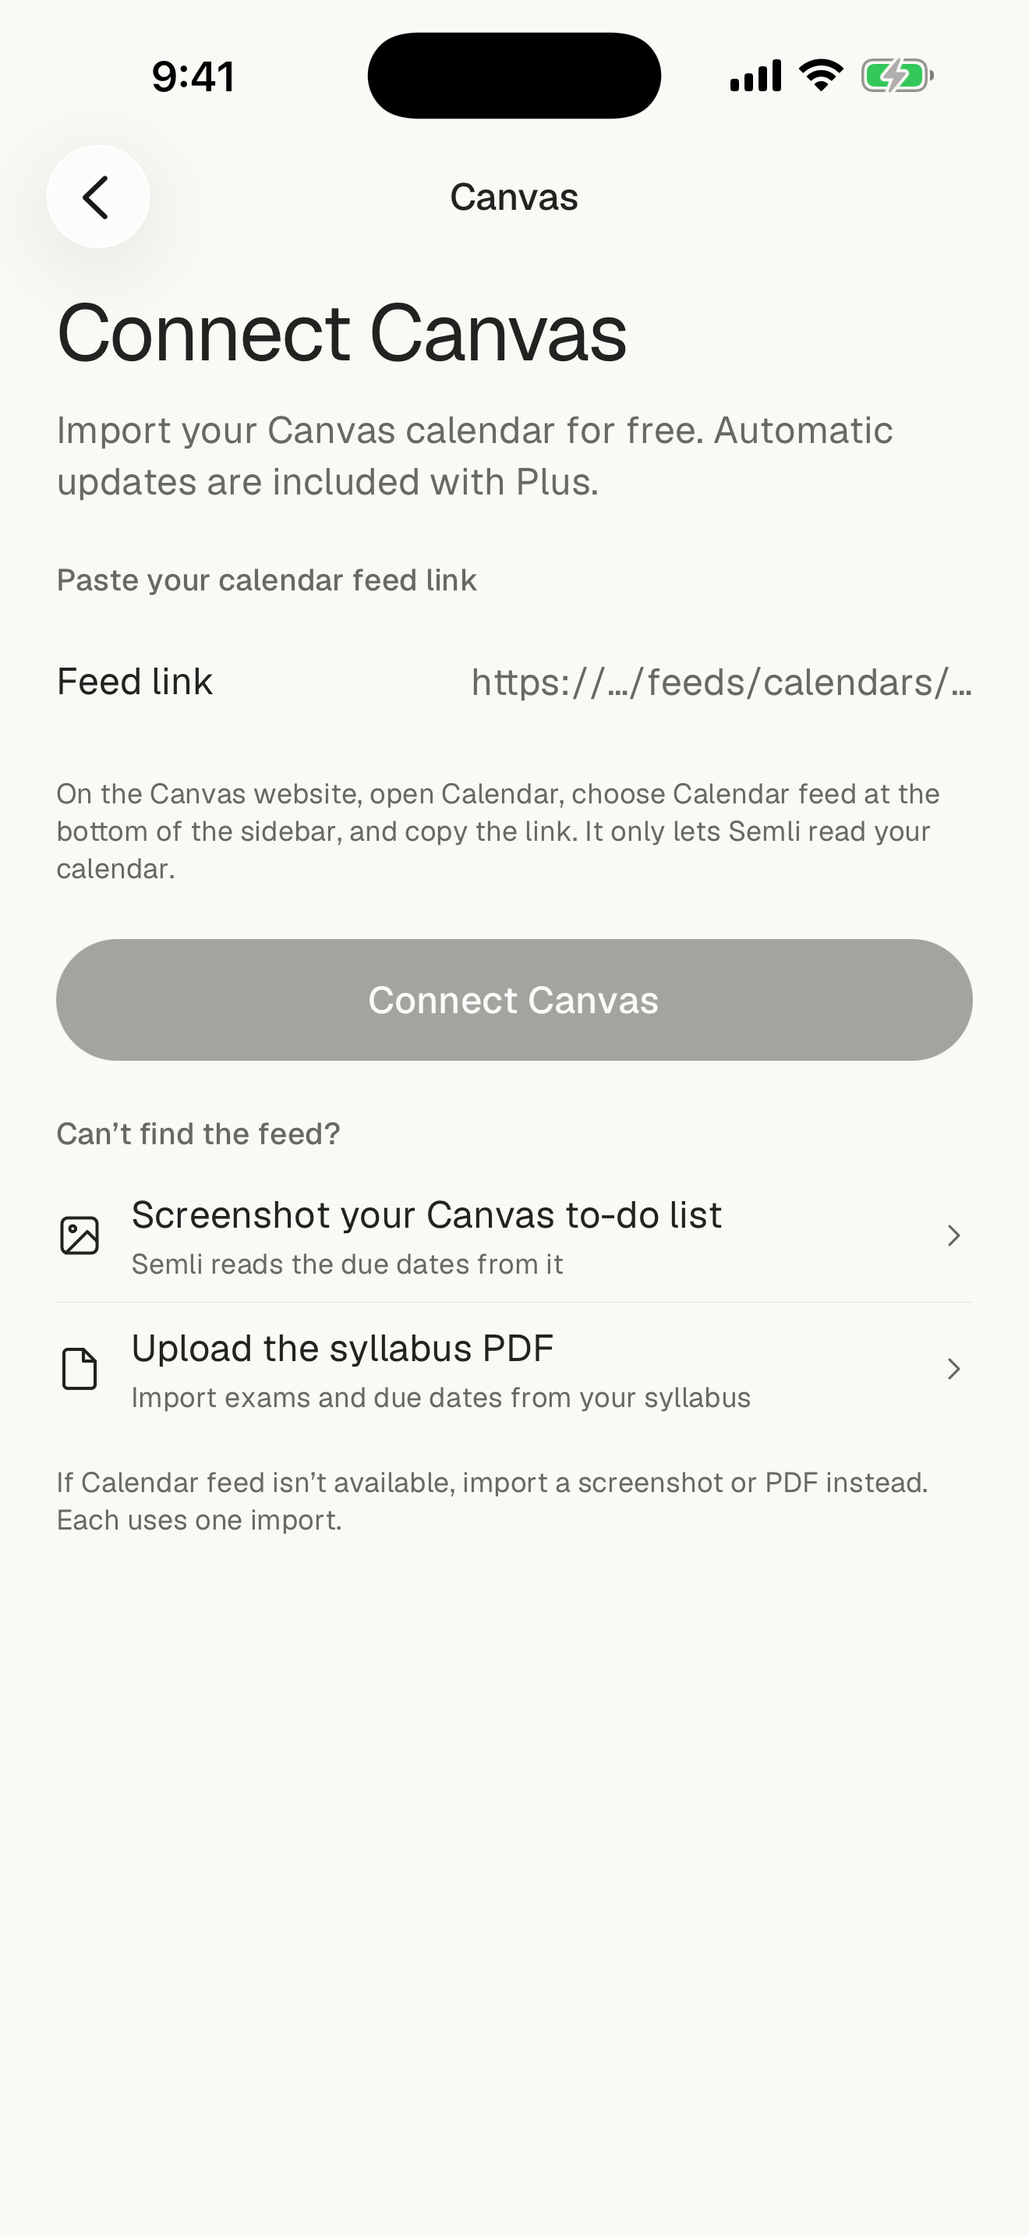
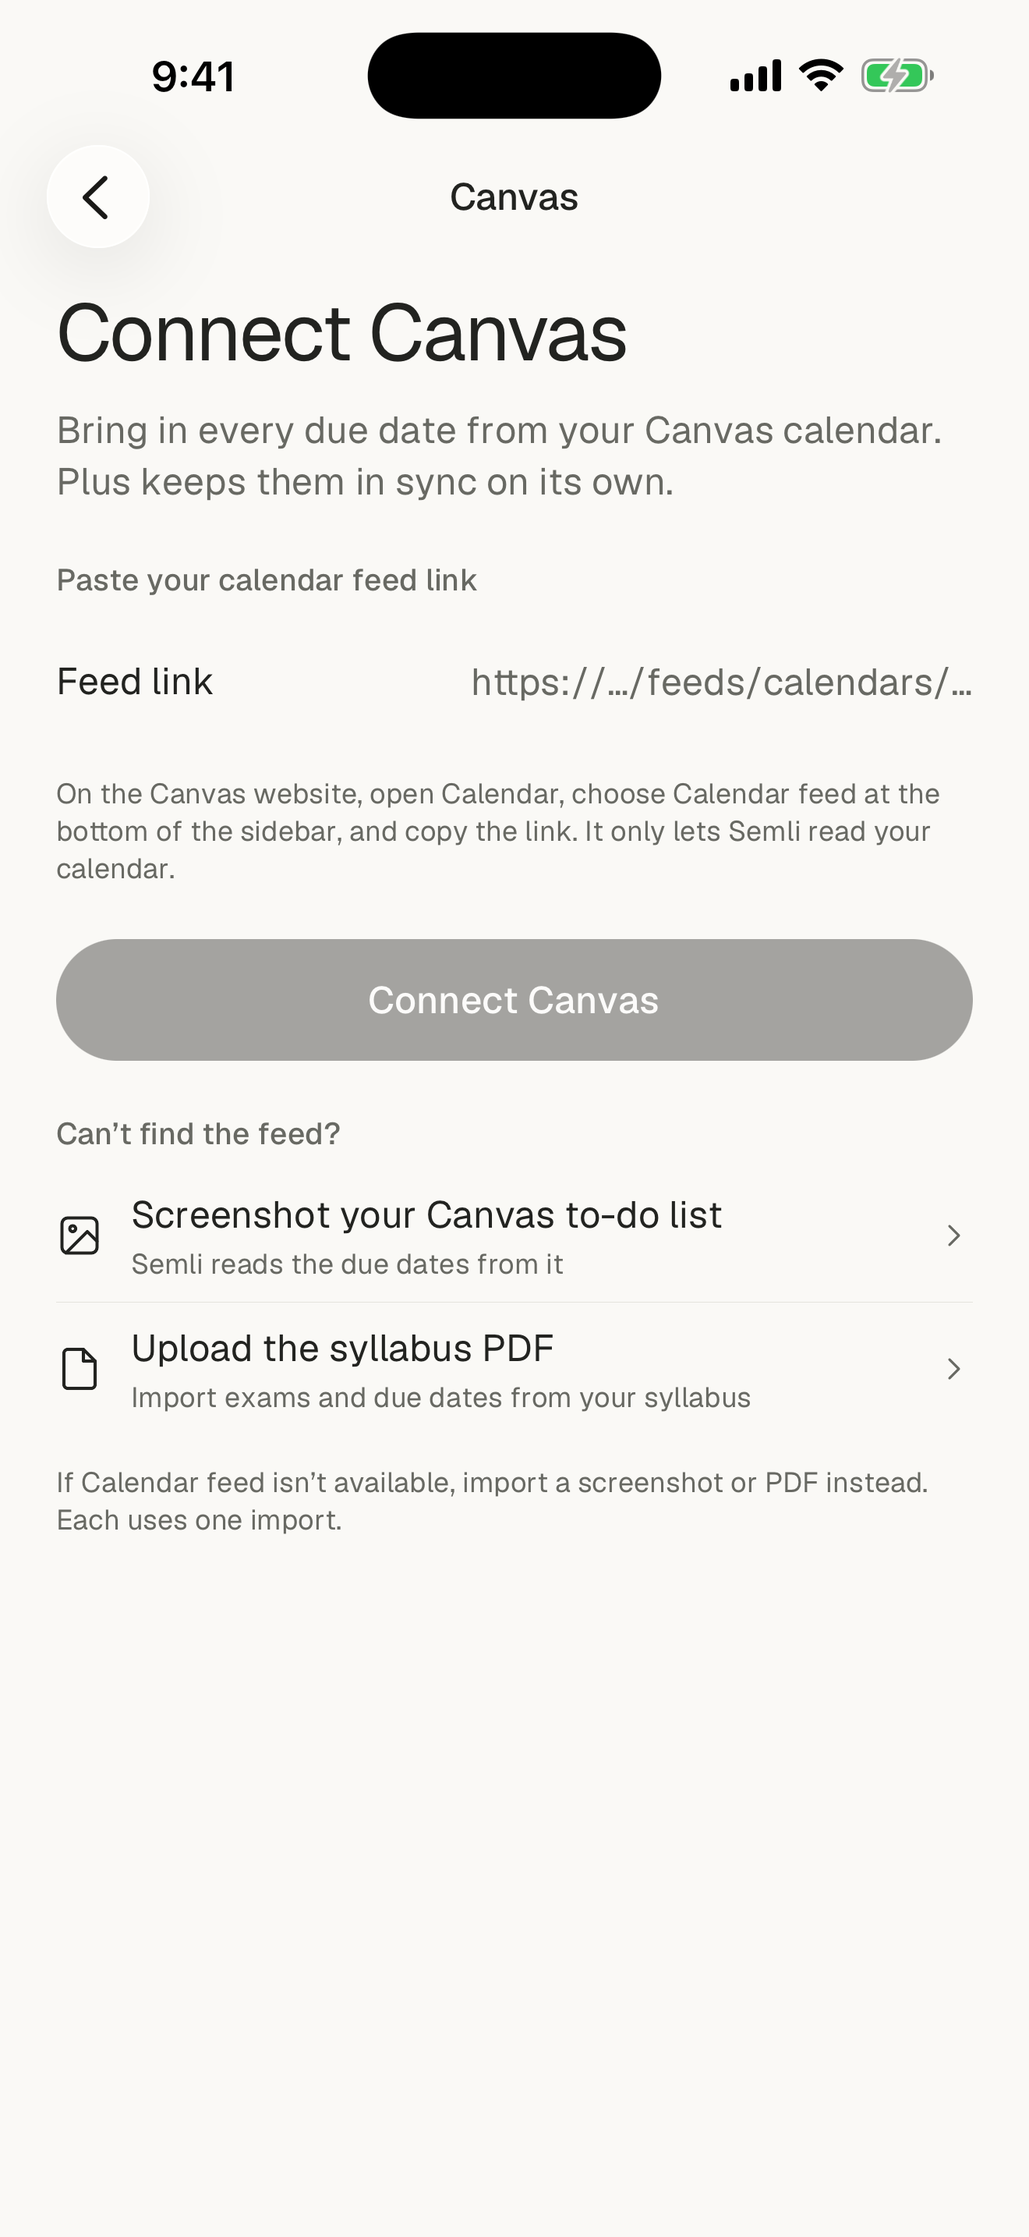
feat: enhance notifications and reminders functionality; update Canvas screen text and add new tests

Changed region(s): [[0.0621, 0.1862, 0.9008, 0.2172]]

diff --git a/apps/mobile/src/lib/reminder-plan.ts b/apps/mobile/src/lib/reminder-plan.ts
@@ -7,6 +7,8 @@ export interface ReminderPrefs {
   urgentAlarmsEnabled?: boolean;
   /** Minutes before a timed event. */
   eventLead: 10 | 30 | 60;
+  /** Also remind before each repeating class. Off unless chosen: a class you attend three times a week needs no nudge. */
+  classReminders?: boolean;
   /** HH:mm the day before a deadline. */
   dayBeforeAt: string;
   /** HH:mm on the morning of a deadline. */
@@ -38,12 +40,16 @@ export interface PlannedNotification {
   time: string;
   itemId: string | null;
   kind: 'event' | 'deadline' | 'briefing';
+  /** Where a tap opens: the item, or Today for a summary of several, or the plan for the trial. */
+  url: string;
 }
 
 /** iOS keeps at most 64 pending local notifications; leave headroom. */
 export const MAX_PENDING = 60;
 export const BRIEFING_DAYS = 7;
 export const HORIZON_DAYS = 14;
+/** No day gets more than this many; the latest ordinary event reminders give way first. */
+export const DAILY_MAX = 5;
 
 const toAbs = (date: string, time: string) => dayNumber(date) * 1440 + toMinutes(time);
 const fromAbs = (abs: number): { date: string; time: string } => {
@@ -73,16 +79,29 @@ function respectQuiet(abs: number, itemAbs: number | null, prefs: ReminderPrefs)
   return moved;
 }
 
+/** "A", "A and B", "A, B and C", "A, B and 2 more". */
+function titleList(items: Item[]): string {
+  const names = items.map((i) => i.title);
+  if (names.length <= 3) return names.length === 1 ? names[0]! : `${names.slice(0, -1).join(', ')} and ${names[names.length - 1]}`;
+  return `${names.slice(0, 2).join(', ')} and ${names.length - 2} more`;
+}
+
+/** The summary names what is due today, since it stands in for the morning deadline reminders. */
 function dayLine(items: Item[], date: string): string {
   const todays = items.filter((i) => i.date === date && !i.done);
   if (todays.length === 0) return '';
-  const timed = todays.filter((i) => i.start).sort((a, b) => a.start!.localeCompare(b.start!));
+  const due = todays.filter((i) => i.isDeadline);
+  const rest = todays.filter((i) => !i.isDeadline);
+  const timed = rest.filter((i) => i.start).sort((a, b) => a.start!.localeCompare(b.start!));
   const parts = timed.slice(0, 3).map((i) => `${i.title} ${i.end && i.start ? formatRange(i.start, i.end) : formatTime(i.start!)}`);
-  const tasks = todays.length - timed.length;
+  const tasks = rest.length - timed.length;
   const head = `${todays.length} ${todays.length === 1 ? 'item' : 'items'} today`;
   const tail = [parts.join(', '), tasks > 0 ? `${tasks} to-do${tasks === 1 ? '' : 's'}` : ''].filter(Boolean).join('; ');
-  return tail ? `${head}: ${tail}.` : `${head}.`;
+  return [tail ? `${head}: ${tail}.` : `${head}.`, due.length ? `Due today: ${titleList(due)}.` : ''].filter(Boolean).join(' ');
 }
+
+/** A repeating class: reminded only when the person turns class reminders on, or marks it urgent. */
+const isClass = (it: Item) => !!it.seriesId && it.category === 'school' && !it.isDeadline && !it.urgent;
 
 /**
  * Everything that should be scheduled right now, in delivery order, capped for iOS.
@@ -98,35 +117,55 @@ export function planReminders(items: Item[], prefs: ReminderPrefs, now: { date: 
   items = items.filter((item) => item.sourceId !== 'sample');
   if (!prefs.enabled && !prefs.briefing && !extras.trial) return [];
   const nowAbs = toAbs(now.date, now.time);
-  const out: (PlannedNotification & { abs: number })[] = [];
-  const push = (p: Omit<PlannedNotification, 'date' | 'time'>, abs: number) => {
+  // rank 0 always stays; rank 1 (ordinary event reminders) gives way when a day is full.
+  const out: (PlannedNotification & { abs: number; rank: 0 | 1 })[] = [];
+  const push = (p: Omit<PlannedNotification, 'date' | 'time'>, abs: number, rank: 0 | 1 = 0) => {
     if (abs <= nowAbs) return;
     const { date, time } = fromAbs(abs);
     if (diffDays(now.date, date) > HORIZON_DAYS) return;
-    out.push({ ...p, date, time, abs });
+    out.push({ ...p, date, time, abs, rank });
   };
+  const live = items.filter((it) => !it.done && it.date >= now.date);
 
   if (prefs.enabled) {
-    for (const it of items) {
-      if (it.done || it.date < now.date) continue;
-      if (it.kind === 'event' && it.start) {
+    for (const it of live) {
+      if (it.kind === 'event' && it.start && (prefs.classReminders || !isClass(it))) {
         const itemAbs = toAbs(it.date, it.start);
         push(
-          { id: `ev-${it.id}`, title: it.title, body: `Starts at ${formatTime(it.start)}${it.end ? ` · Ends at ${formatTime(it.end)}` : ''}.`, itemId: it.id, kind: 'event' },
+          { id: `ev-${it.id}`, title: it.title, body: `Starts at ${formatTime(it.start)}${it.end ? ` · Ends at ${formatTime(it.end)}` : ''}.`, itemId: it.id, kind: 'event', url: `/item/${it.id}` },
           respectQuiet(itemAbs - prefs.eventLead, itemAbs, prefs),
+          it.urgent ? 0 : 1,
         );
       }
-      if (it.isDeadline) {
-        const dueAbs = it.start ? toAbs(it.date, it.start) : null;
-        const dueLabel = it.start ? `${weekdayLong(it.date)} at ${formatTime(it.start)}` : weekdayLong(it.date);
+    }
+
+    // Deadlines on the same day share one reminder the evening before, and one that morning.
+    const byDate = new Map<string, Item[]>();
+    for (const it of live.filter((i) => i.isDeadline)) byDate.set(it.date, [...(byDate.get(it.date) ?? []), it]);
+    for (const [date, due] of byDate) {
+      due.sort((a, b) => (a.start ?? '99').localeCompare(b.start ?? '99'));
+      const first = due[0]!;
+      const one = due.length === 1;
+      const firstAbs = first.start ? toAbs(date, first.start) : null;
+      const target = one ? { itemId: first.id, url: `/item/${first.id}` } : { itemId: null, url: '/' };
+      const dueLabel = first.start ? `${weekdayLong(date)} at ${formatTime(first.start)}` : weekdayLong(date);
+      push(
+        one
+          ? { id: `dl1-${first.id}`, title: first.title, body: `Due ${dueLabel}.`, kind: 'deadline', ...target }
+          : { id: `dl1-${date}`, title: `${due.length} things due ${weekdayLong(date)}`, body: `${titleList(due)}.`, kind: 'deadline', ...target },
+        respectQuiet(toAbs(addDays(date, -1), prefs.dayBeforeAt), firstAbs, prefs),
+      );
+      // The daily summary names what is due today, so it replaces the morning reminder when it comes first.
+      const morning = toAbs(date, prefs.morningAt);
+      const summaryAbs = toAbs(date, prefs.briefingAt);
+      const summaryFirst = prefs.briefing && diffDays(now.date, date) < BRIEFING_DAYS && summaryAbs > nowAbs && (firstAbs === null || summaryAbs < firstAbs);
+      if (!summaryFirst && (firstAbs === null || morning < firstAbs)) {
         push(
-          { id: `dl1-${it.id}`, title: it.title, body: `Due ${dueLabel}.`, itemId: it.id, kind: 'deadline' },
-          respectQuiet(toAbs(addDays(it.date, -1), prefs.dayBeforeAt), dueAbs, prefs),
+          one
+            ? { id: `dl2-${first.id}`, title: first.title, body: first.start ? `Due today at ${formatTime(first.start)}.` : 'Due today.', kind: 'deadline', ...target }
+            : { id: `dl2-${date}`, title: `${due.length} things due today`, body: `${titleList(due)}.`, kind: 'deadline', ...target },
+          morning,
         );
-        const morning = toAbs(it.date, prefs.morningAt);
-        if (dueAbs === null || morning < dueAbs) {
-          push({ id: `dl2-${it.id}`, title: it.title, body: it.start ? `Due today at ${formatTime(it.start)}.` : 'Due today.', itemId: it.id, kind: 'deadline' }, morning);
-        }
       }
     }
   }
@@ -140,7 +179,7 @@ export function planReminders(items: Item[], prefs: ReminderPrefs, now: { date: 
         .sort((a, b) => a.date.localeCompare(b.date))[0];
       if (!line && !nextDeadline) continue;
       const body = [line, nextDeadline ? `${nextDeadline.title} is due ${weekdayLong(nextDeadline.date)}.` : ''].filter(Boolean).join(' ');
-      push({ id: `brief-${date}`, title: 'Today’s schedule', body, itemId: null, kind: 'briefing' }, toAbs(date, prefs.briefingAt));
+      push({ id: `brief-${date}`, title: 'Today’s schedule', body, itemId: null, kind: 'briefing', url: '/' }, toAbs(date, prefs.briefingAt));
     }
   }
 
@@ -150,17 +189,27 @@ export function planReminders(items: Item[], prefs: ReminderPrefs, now: { date: 
       const pad = (n: number) => String(n).padStart(2, '0');
       const endDate = `${ends.getFullYear()}-${pad(ends.getMonth() + 1)}-${pad(ends.getDate())}`;
       push(
-        { id: 'trial-reminder', title: 'Your Semli Plus trial ends in 2 days', body: `Renews at ${extras.trial.label} unless you cancel. Manage your subscription in You → Your plan.`, itemId: null, kind: 'briefing' },
+        { id: 'trial-reminder', title: 'Your Semli Plus trial ends in 2 days', body: `Renews at ${extras.trial.label} unless you cancel. Manage your subscription in You → Your plan.`, itemId: null, kind: 'briefing', url: '/settings/plan' },
         toAbs(addDays(endDate, -2), prefs.dayBeforeAt),
       );
     }
   }
 
   out.sort((a, b) => a.abs - b.abs);
-  // Keep every briefing (they are few) and the soonest reminders up to the cap.
-  const briefings = out.filter((p) => p.kind === 'briefing');
-  const rest = out.filter((p) => p.kind !== 'briefing').slice(0, Math.max(0, MAX_PENDING - briefings.length));
+  // At most DAILY_MAX a day: everything of rank 0, then the soonest event reminders.
+  const perDay = new Map<string, number>();
+  for (const p of out) if (p.rank === 0) perDay.set(p.date, (perDay.get(p.date) ?? 0) + 1);
+  const kept = out.filter((p) => {
+    if (p.rank === 0) return true;
+    const used = perDay.get(p.date) ?? 0;
+    if (used >= DAILY_MAX) return false;
+    perDay.set(p.date, used + 1);
+    return true;
+  });
+  // Keep every briefing (they are few) and the soonest reminders up to the iOS cap.
+  const briefings = kept.filter((p) => p.kind === 'briefing');
+  const rest = kept.filter((p) => p.kind !== 'briefing').slice(0, Math.max(0, MAX_PENDING - briefings.length));
   return [...briefings, ...rest]
     .sort((a, b) => a.abs - b.abs)
-    .map(({ abs: _abs, ...p }) => p);
+    .map(({ abs: _abs, rank: _rank, ...p }) => p);
 }

diff --git a/apps/mobile/src/lib/reminder-plan.test.ts b/apps/mobile/src/lib/reminder-plan.test.ts
@@ -79,6 +79,48 @@ describe('planReminders', () => {
     expect(plan.some((p) => p.id === 'brief-2026-10-25')).toBe(false);
   });
 
+  it('skips repeating classes unless class reminders are on, but keeps shifts and urgent classes', () => {
+    const items = [
+      item({ id: 'lec', title: 'Stats lecture', date: '2026-10-20', start: '09:00', end: '10:15', seriesId: 'stats' }),
+      item({ id: 'lab', title: 'Bio lab', date: '2026-10-20', start: '13:00', end: '15:00', seriesId: 'bio', urgent: true }),
+      item({ id: 'shift', title: 'Café shift', category: 'work', date: '2026-10-20', start: '16:00', end: '22:00', seriesId: 'cafe' }),
+    ];
+    const prefs = { ...DEFAULT_REMINDERS, briefing: false };
+    expect(planReminders(items, prefs, now).map((p) => p.id)).toEqual(['ev-lab', 'ev-shift']);
+    expect(planReminders(items, { ...prefs, classReminders: true }, now).map((p) => p.id)).toEqual(['ev-lec', 'ev-lab', 'ev-shift']);
+  });
+
+  it('groups deadlines on the same day into one reminder that opens Today', () => {
+    const plan = planReminders(
+      [
+        item({ id: 'a', kind: 'task', title: 'Lab report', date: '2026-10-21', isDeadline: true }),
+        item({ id: 'b', kind: 'task', title: 'Problem set', date: '2026-10-21', isDeadline: true }),
+        item({ id: 'c', kind: 'task', title: 'Reading quiz', date: '2026-10-21', start: '09:00', isDeadline: true }),
+      ],
+      { ...DEFAULT_REMINDERS, briefing: false },
+      now,
+    );
+    expect(plan.map((p) => [p.id, p.title, p.body, p.url])).toEqual([
+      ['dl1-2026-10-21', '3 things due Wednesday', 'Reading quiz, Lab report and Problem set.', '/'],
+      ['dl2-2026-10-21', '3 things due today', 'Reading quiz, Lab report and Problem set.', '/'],
+    ]);
+  });
+
+  it('lets the daily summary stand in for the morning deadline reminder, and names it', () => {
+    const plan = planReminders([item({ id: 'essay', kind: 'task', title: 'Essay', date: '2026-10-20', isDeadline: true })], DEFAULT_REMINDERS, now);
+    expect(plan.map((p) => p.id)).toEqual(['dl1-essay', 'brief-2026-10-20']);
+    expect(plan.find((p) => p.id === 'dl1-essay')?.url).toBe('/item/essay');
+    expect(plan.find((p) => p.id === 'brief-2026-10-20')?.body).toBe('1 item today. Due today: Essay.');
+  });
+
+  it('sends at most five a day, dropping the latest ordinary event reminders first', () => {
+    const events = Array.from({ length: 8 }, (_, i) => item({ id: `e${i}`, title: `Event ${i}`, category: 'work', date: '2026-10-20', start: `${String(9 + i).padStart(2, '0')}:00`, end: '23:00' }));
+    const urgent = item({ id: 'u', title: 'Clinical', date: '2026-10-20', start: '20:00', end: '21:00', urgent: true });
+    const plan = planReminders([...events, urgent], DEFAULT_REMINDERS, now).filter((p) => p.date === '2026-10-20');
+    expect(plan).toHaveLength(5);
+    expect(plan.map((p) => p.id)).toEqual(['brief-2026-10-20', 'ev-e0', 'ev-e1', 'ev-e2', 'ev-u']);
+  });
+
   it('knows quiet hours across midnight', () => {
     expect(inQuietHours('23:30', DEFAULT_REMINDERS)).toBe(true);
     expect(inQuietHours('06:59', DEFAULT_REMINDERS)).toBe(true);

diff --git a/apps/mobile/src/lib/notifications.ts b/apps/mobile/src/lib/notifications.ts
@@ -1,4 +1,5 @@
 import { localParts } from '@dayli/core';
+import { router } from 'expo-router';
 import * as Notifications from 'expo-notifications';
 import { useEffect, useRef } from 'react';
 import { AppState, Platform } from 'react-native';
@@ -55,7 +56,7 @@ export async function syncReminders(): Promise<number> {
     const { items, settings } = useStore.getState();
     const allowed = await notificationsAllowed();
     const plan = allowed ? planReminders(Object.values(items), settings.reminders, localParts(new Date()), { trial: settings.trial }) : [];
-    const signature = JSON.stringify(plan.map((p) => [p.id, p.date, p.time, p.body]));
+    const signature = JSON.stringify(plan.map((p) => [p.id, p.date, p.time, p.title, p.body, p.url]));
     if (signature === lastSignature) return plan.length;
     // A failed replacement may leave a partial schedule. Never reuse its old signature.
     lastSignature = '';
@@ -63,7 +64,7 @@ export async function syncReminders(): Promise<number> {
     for (const p of plan) {
       await Notifications.scheduleNotificationAsync({
         identifier: p.id,
-        content: { title: p.title, body: p.body, sound: 'default', data: { itemId: p.itemId, kind: p.kind } },
+        content: { title: p.title, body: p.body, sound: 'default', data: { itemId: p.itemId, kind: p.kind, url: p.url } },
         trigger: triggerFor(p),
       });
     }
@@ -99,4 +100,27 @@ export function useReminderSync() {
     const sub = AppState.addEventListener('change', (s) => s === 'active' && void syncReminders().catch(() => {}));
     return () => sub.remove();
   }, []);
+}
+
+/**
+ * A tapped reminder opens what it is about: the item, Today for a summary, or the plan for the
+ * trial reminder. Also when the tap launched the app, once the plan has loaded. Reminders
+ * scheduled before `url` existed carry only `itemId`.
+ */
+export function useNotificationTaps(ready: boolean) {
+  const response = Notifications.useLastNotificationResponse();
+  useEffect(() => {
+    if (Platform.OS === 'web' || !ready || !response || response.actionIdentifier !== Notifications.DEFAULT_ACTION_IDENTIFIER) return;
+    Notifications.clearLastNotificationResponse();
+    const { settings, items } = useStore.getState();
+    if (!settings.onboarded) return;
+    const data = response.notification.request.content.data ?? {};
+    const itemId = typeof data.itemId === 'string' ? data.itemId : null;
+    const url = typeof data.url === 'string' ? data.url : itemId ? `/item/${itemId}` : '/';
+    track('notification_opened', { kind: typeof data.kind === 'string' ? data.kind : 'test' });
+    // Something deleted since the reminder was scheduled opens Today instead.
+    if (url.startsWith('/item/') && !(itemId && items[itemId])) router.navigate('/');
+    else if (url === '/') router.navigate('/');
+    else router.push(url as never);
+  }, [ready, response]);
 }

diff --git a/apps/mobile/src/app/settings/reminders.tsx b/apps/mobile/src/app/settings/reminders.tsx
@@ -94,8 +94,9 @@ export default function RemindersScreen() {
         </Group>
       ) : null}
 
-      <Group title="Event and deadline reminders" footer="Choose when to be notified before events and on the evening before and morning of each deadline.">
+      <Group title="Event and deadline reminders" footer="Classes that repeat every week stay quiet unless you turn them on. Deadlines on the same day share one reminder, and no day gets more than five.">
         <ToggleRow label="Reminders" value={prefs.enabled && allowed !== false} onChange={(on) => void toggle('enabled')(on)} />
+        <ToggleRow label="Before each class" value={!!prefs.classReminders} onChange={(on) => { feedback('select'); update({ classReminders: on }); }} />
         <View style={[styles.row, hairline]}>
           <T style={{ flex: 1 }}>Before an event</T>
           <View style={styles.segment}>
@@ -117,7 +118,7 @@ export default function RemindersScreen() {
         {timeRow('Until', 'quietEnd', true)}
       </Group>
 
-      <Group title="Daily summary" footer="Today’s schedule and the next deadline within three days. No notification if there’s nothing to show.">
+      <Group title="Daily summary" footer="Today’s schedule, what’s due today and the next deadline within three days. It takes the place of the morning deadline reminder. No notification if there’s nothing to show.">
         <ToggleRow label="Daily summary" value={prefs.briefing && allowed !== false} onChange={(on) => void toggle('briefing')(on)} />
         {timeRow('At', 'briefingAt', true)}
       </Group>

diff --git a/apps/mobile/src/app/_layout.tsx b/apps/mobile/src/app/_layout.tsx
@@ -34,7 +34,7 @@ import { useAppLanguage } from '@/lib/use-app-language';
 import { setDevTime } from '@/lib/now';
 import { hideSplash } from '@/lib/splash';
 import { sampleScheduleExtraction, sampleScheduleUpdate, sampleSyllabusExtraction, sampleWeek, testFortnight } from '@/store/sample';
-import { configureNotifications, useReminderSync } from '@/lib/notifications';
+import { configureNotifications, useNotificationTaps, useReminderSync } from '@/lib/notifications';
 
 import { PurchasesProvider } from '@/providers/PurchasesProvider';
 import { navigationButtonOptions } from '@/components/NavButtons';
@@ -114,6 +114,7 @@ function RootLayout() {
   useAppLanguage();
   useEffect(() => { if (fontError) reportError('fonts.load', fontError); }, [fontError]);
   useReminderSync();
+  useNotificationTaps(ready);
   const alarmItems = useStore((s) => s.items);
   const alarmsEnabled = useStore((s) => s.settings.reminders.urgentAlarmsEnabled);
   useEffect(() => {

diff --git a/apps/mobile/src/app/settings/canvas.tsx b/apps/mobile/src/app/settings/canvas.tsx
@@ -117,7 +117,7 @@ export default function CanvasScreen() {
         <Animated.View key="off" layout={layout} entering={enter.fade} exiting={exit.fade} style={styles.stack}>
           <View style={styles.top}>
             <T token="display" accessibilityRole="header">Connect Canvas</T>
-            <T token="body" color={c.inkSecondary} style={styles.line}>Import your Canvas calendar for free. Automatic updates are included with Plus.</T>
+            <T token="body" color={c.inkSecondary} style={styles.line}>Bring in every due date from your Canvas calendar. Plus keeps them in sync on its own.</T>
           </View>
           <Group title="Paste your calendar feed link"
             footer="On the Canvas website, open Calendar, choose Calendar feed at the bottom of the sidebar, and copy the link. It only lets Semli read your calendar.">

diff --git a/apps/mobile/src/lib/analytics.ts b/apps/mobile/src/lib/analytics.ts
@@ -53,6 +53,7 @@ export type AnalyticsEvent =
   | 'review_requested'
   | 'reminders_permission'
   | 'reminders_changed'
+  | 'notification_opened'
   | 'briefing_changed'
   | 'canvas_synced'
   | 'canvas_sync_failed'
